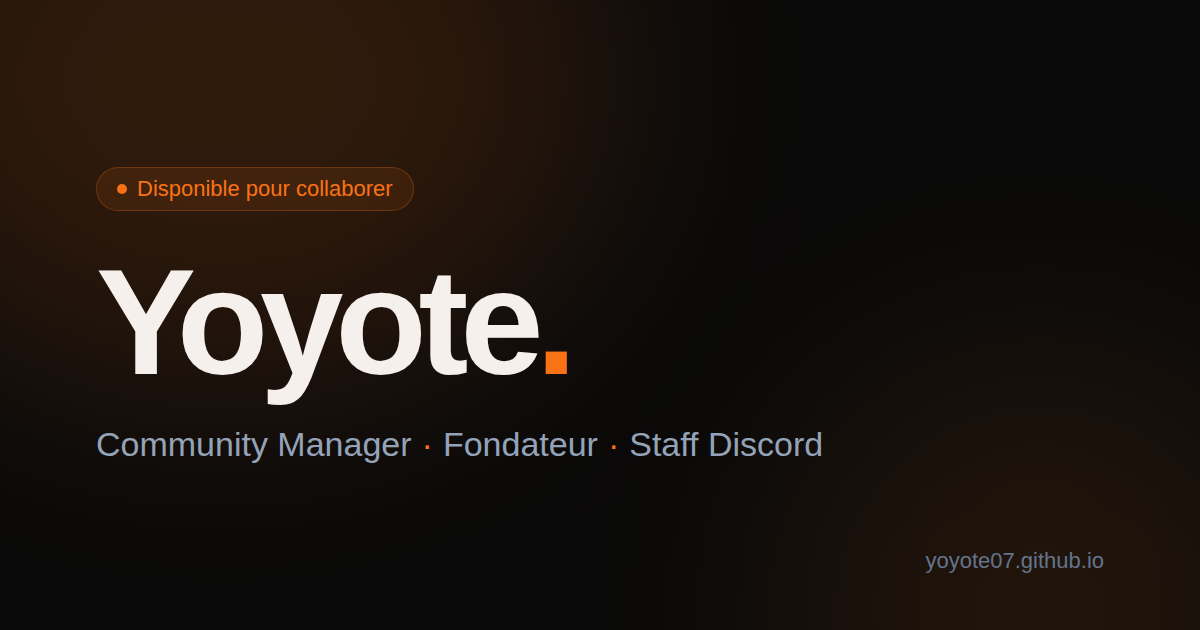
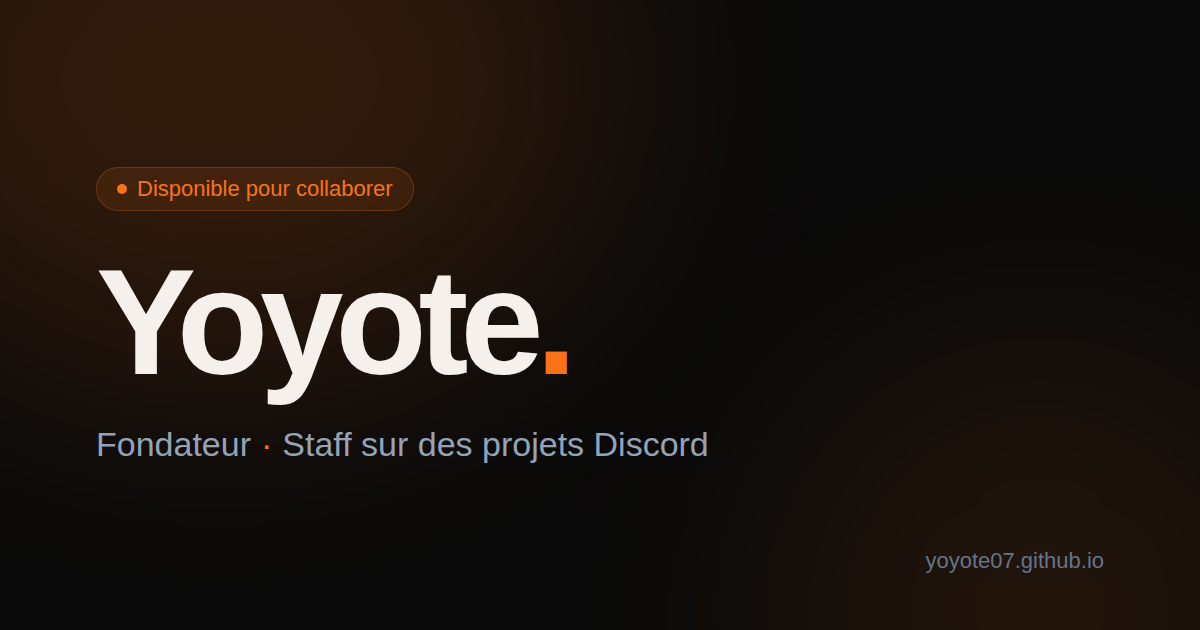
Remplace « Community Manager » par fondateur et staff sur des projets Discord
Claude-Session: https://claude.ai/code/session_01YWuvYQ5GDuhd5yqHvaHHRW

Changed region(s): [[0.0617, 0.6635, 0.7092, 0.7238]]

diff --git a/index.html b/index.html
@@ -4,7 +4,7 @@
   <meta charset="UTF-8" />
   <meta name="viewport" content="width=device-width, initial-scale=1.0" />
   <title>Yoyote</title>
-  <meta name="description" content="Yoyote — Fondateur, administrateur et community manager sur Discord." />
+  <meta name="description" content="Yoyote — Fondateur de projets Discord et membre du staff (administration, modération) sur plusieurs communautés." />
   <meta name="theme-color" content="#0a0a0a" />
   <link rel="canonical" href="https://yoyote07.github.io/" />
   <link rel="icon" href="favicon.svg" type="image/svg+xml" />
@@ -13,12 +13,12 @@
   <meta property="og:type" content="website" />
   <meta property="og:locale" content="fr_FR" />
   <meta property="og:url" content="https://yoyote07.github.io/" />
-  <meta property="og:title" content="Yoyote — Community Manager Discord" />
+  <meta property="og:title" content="Yoyote — Fondateur &amp; staff Discord" />
   <meta property="og:description" content="Je crée, structure et anime des communautés Discord. De la conception du serveur à la gestion quotidienne des membres." />
   <meta property="og:image" content="https://yoyote07.github.io/og-image.png" />
   <meta property="og:image:width" content="1200" />
   <meta property="og:image:height" content="630" />
-  <meta property="og:image:alt" content="Yoyote — Community Manager · Fondateur · Staff Discord" />
+  <meta property="og:image:alt" content="Yoyote — Fondateur · Staff sur des projets Discord" />
   <meta name="twitter:card" content="summary_large_image" />
   <script type="application/ld+json">
   {
@@ -80,7 +80,7 @@
           <span class="sr-only">Yoyote</span><span id="typed-name" aria-hidden="true">Yoyote</span><span class="blink" id="blink" aria-hidden="true">|</span>
         </h1>
         <p class="hero-sub fade-hero">
-          Community Manager <span class="sep">·</span> Fondateur <span class="sep">·</span> Staff Discord
+          Fondateur <span class="sep">·</span> Staff sur des projets Discord
         </p>
         <p class="hero-desc fade-hero">
           Je crée, structure et anime des communautés Discord.<br class="br-d" />
